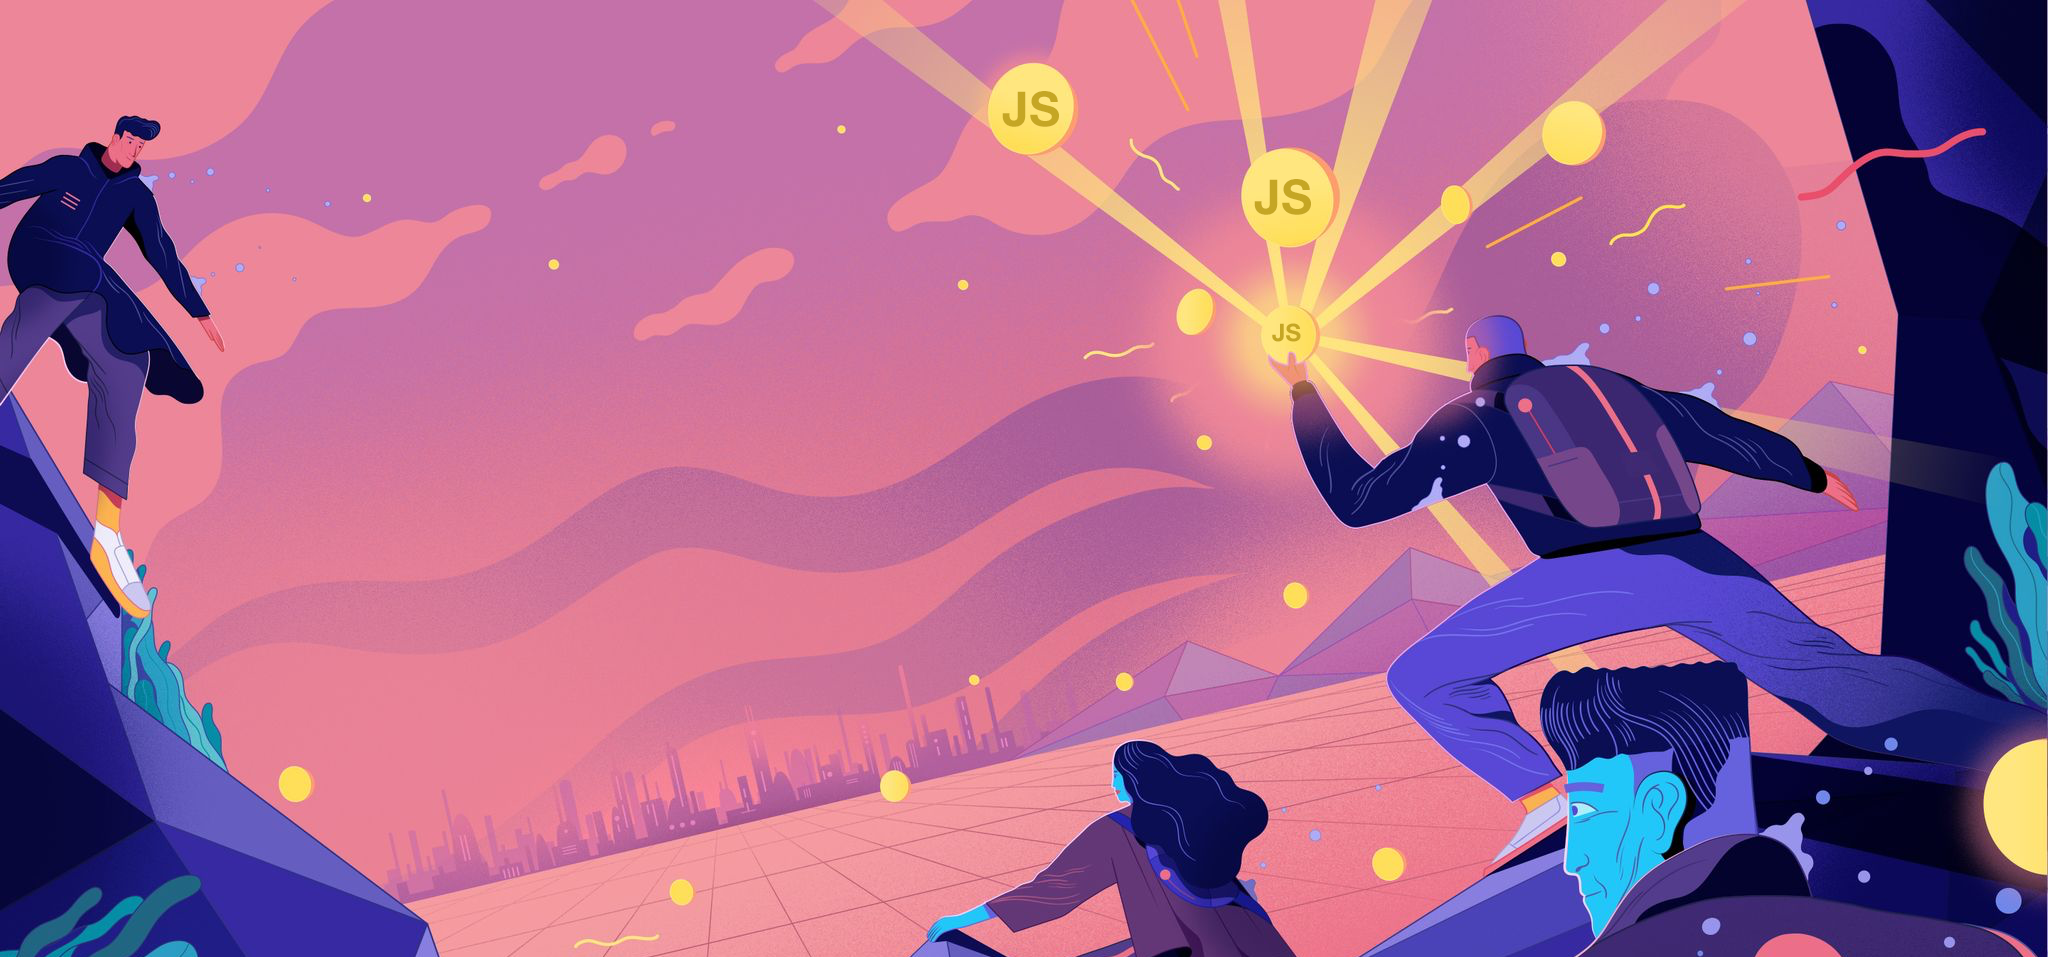
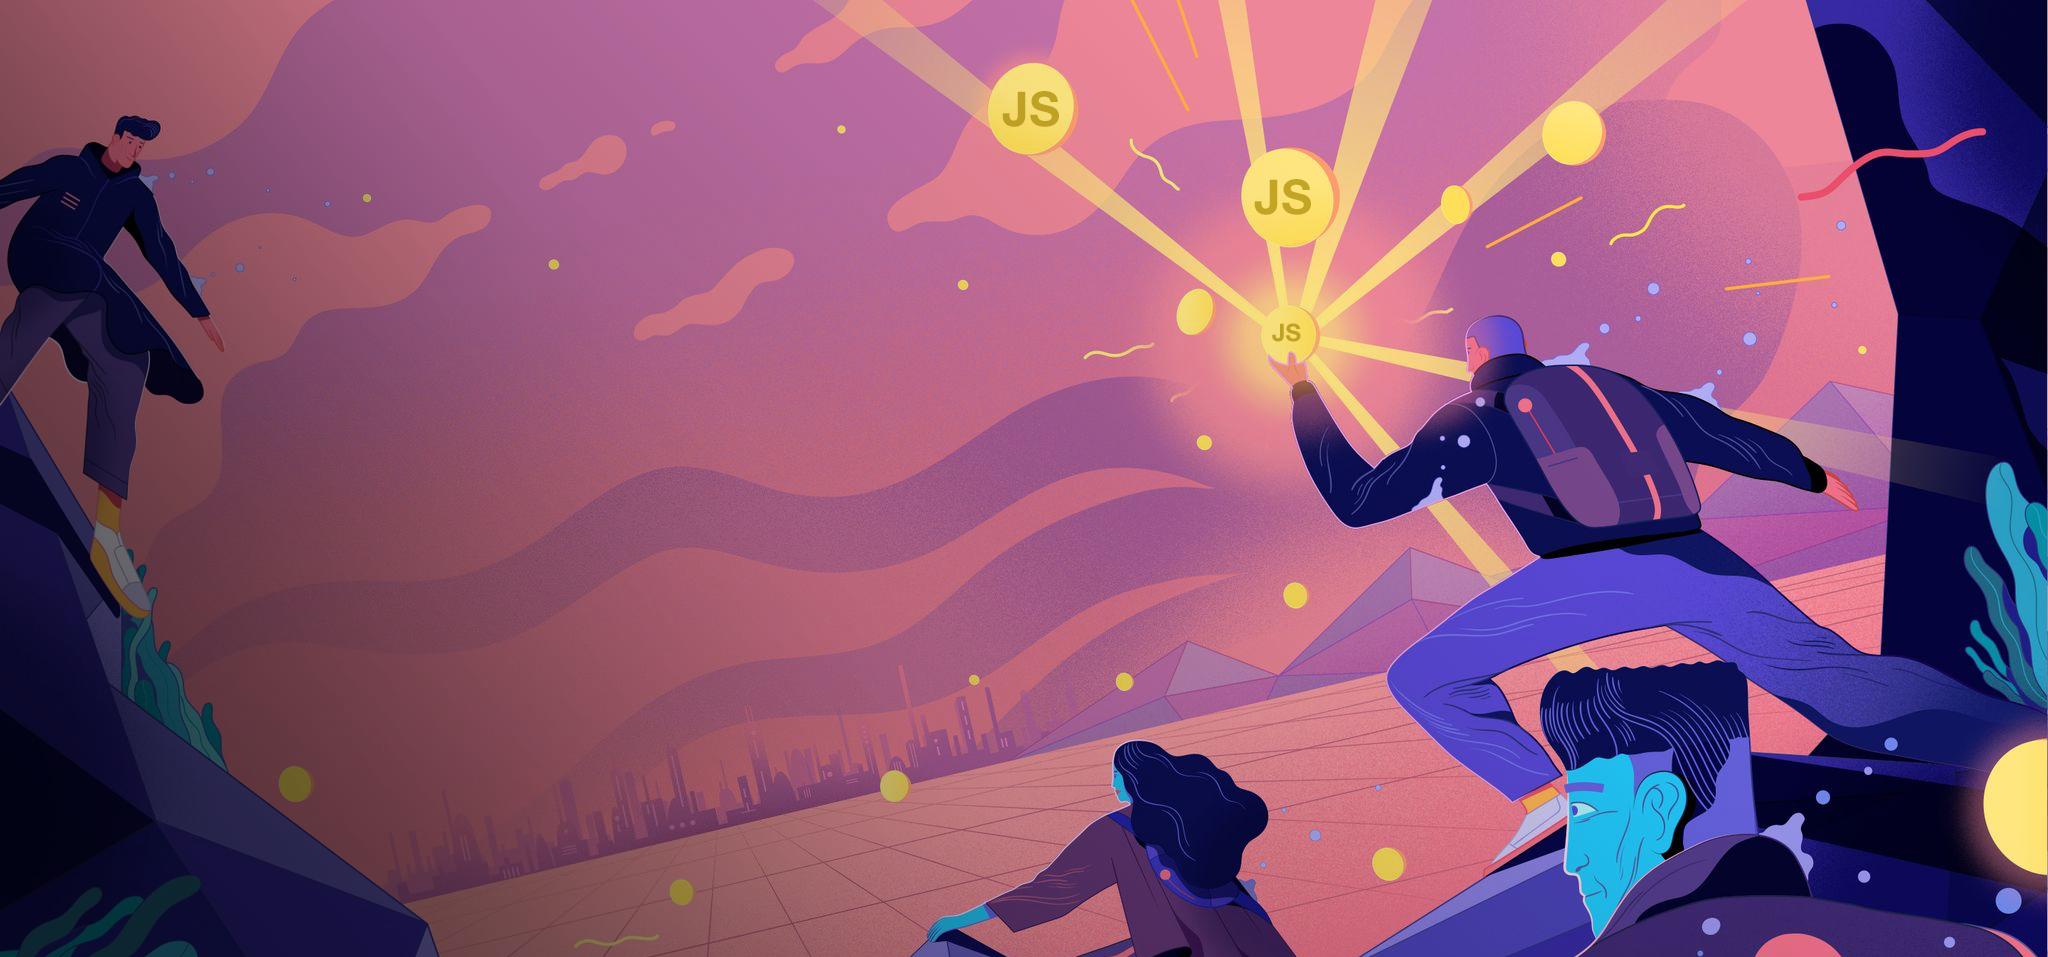
updated main pic

diff --git a/seven.html b/seven.html
@@ -1,0 +1,97 @@
+<html>
+    <head>
+        <title>JS DOM Exercises</title>
+        <link rel="stylesheet" href="https://stackpath.bootstrapcdn.com/bootstrap/4.3.1/css/bootstrap.min.css" integrity="sha384-ggOyR0iXCbMQv3Xipma34MD+dH/1fQ784/j6cY/iJTQUOhcWr7x9JvoRxT2MZw1T" crossorigin="anonymous">
+        <meta name="viewport" content="width=device-width, initial-scale=1">
+        <link rel="stylesheet" type="text/css" href="styles.css"> 
+        <link rel="shortcut icon" type="image/png" href="js-dom-logo.png">
+    </head>
+
+    <body>
+
+        <!-- Image and text -->
+        <nav class="navbar navbar-light bg-light">
+         <a class="navbar-brand" href="https://alvinjackson101.github.io/js-dom-exercises/">
+            <img src="js-dom-logo.png" width="30" height="30" class="d-inline-block align-top" alt="">
+        JS & DOM
+        </a>
+        </nav>
+
+        <div class="jumbotron jumbotron-fluid">
+            <div class="container">
+              <h1 class="display-4">Javascript and the DOM</h1>
+              <p class="lead">Just choose an topic below.</p>
+              <div class="dropdown">
+                <a class="btn btn-secondary dropdown-toggle" role="button" href="#" id="dropdownMenuLink" data-toggle="dropdown" aria-haspopup="true" aria-expanded="false" >
+                  Choose a Number
+                </a>
+              
+                <div class="dropdown-menu" aria-labelledby="dropdownMenuLink">
+                    <a class="dropdown-item" href="https://alvinjackson101.github.io/js-dom-exercises/one.html">01</a>
+                    <a class="dropdown-item" href="https://alvinjackson101.github.io/js-dom-exercises/two.html">02</a>
+                    <a class="dropdown-item" href="https://alvinjackson101.github.io/js-dom-exercises/three.html">03</a>
+                    <a class="dropdown-item" href="https://alvinjackson101.github.io/js-dom-exercises/four.html">04</a>
+                    <a class="dropdown-item" href="https://alvinjackson101.github.io/js-dom-exercises/five.html">05</a>
+                    <a class="dropdown-item" href="https://alvinjackson101.github.io/js-dom-exercises/six.html">06</a>
+                    <a class="dropdown-item" href="https://alvinjackson101.github.io/js-dom-exercises/seven.html">07</a>
+                    <a class="dropdown-item" href="https://alvinjackson101.github.io/js-dom-exercises/eight.html">08</a>
+                    <a class="dropdown-item" href="https://alvinjackson101.github.io/js-dom-xercises/nine.html">09</a>
+                    <a class="dropdown-item" href="https://alvinjackson101.github.io/js-dom-exercises/ten.html">10</a>
+                    <a class="dropdown-item" href="https://alvinjackson101.github.io/js-dom-exercises/eleven.html">11</a>
+                    <a class="dropdown-item" href="https://alvinjackson101.github.io/js-dom-exercises/twelve.html">12</a>
+                    <a class="dropdown-item" href="https://alvinjackson101.github.io/js-dom-exercises/thirteen.html">13</a>
+                </div>
+              </div>
+            </div>
+        
+        </div>
+
+        <script src="https://code.jquery.com/jquery-3.3.1.slim.min.js" integrity="sha384-q8i/X+965DzO0rT7abK41JStQIAqVgRVzpbzo5smXKp4YfRvH+8abtTE1Pi6jizo" crossorigin="anonymous"></script>
+        <script src="https://cdnjs.cloudflare.com/ajax/libs/popper.js/1.14.7/umd/popper.min.js" integrity="sha384-UO2eT0CpHqdSJQ6hJty5KVphtPhzWj9WO1clHTMGa3JDZwrnQq4sF86dIHNDz0W1" crossorigin="anonymous"></script>
+        <script src="https://stackpath.bootstrapcdn.com/bootstrap/4.3.1/js/bootstrap.min.js" integrity="sha384-JjSmVgyd0p3pXB1rRibZUAYoIIy6OrQ6VrjIEaFf/nJGzIxFDsf4x0xIM+B07jRM" crossorigin="anonymous"></script>
+
+        <div class="container">
+            <h1>Identify a particular cell.</h1>
+   
+            <p id ='text'>
+
+                <table class="table table-bordered bg-dark" id="mytable">
+    
+                    <tr><td>Row1 cell1</td>
+                    <td>Row1 cell2</td></tr>
+                    <tr><td>Row2 cell1</td>
+                    <td>Row2 cell2</td></tr>
+                    <tr><td>Row3 cell1</td>
+                    <td>Row3 cell2</td></tr>
+
+                </table>
+                <br>
+             
+                    <button type="submit" id="jsstyle" class="btn btn-primary" onclick="changeContent()" href="">Change Content</button>
+              
+            </p>
+                    
+            <script>
+                function changeContent(){
+                    var mytable = document.getElementById("mytable");
+                    mytable.rows[2].cells[0].innerHTML = "Hello";
+                }
+            </script>
+            
+            <div class="card">
+                <div class="card-body">
+                   
+                        <pre type="text/javascript">
+function changeContent(){
+    var mytable = document.getElementById("mytable");
+    mytable.rows[2].cells[0].innerHTML = "Hello";
+}
+
+                        </pre>
+                </div>
+            </div>
+            
+        </div>
+    </body>
+
+    </html>

diff --git a/styles.css b/styles.css
@@ -1,6 +1,8 @@
 .jumbotron{
 
     background-image: url(main-pic.png);
+    color: #fff;
+    min-height: 400px;
 }
 
 h1{
